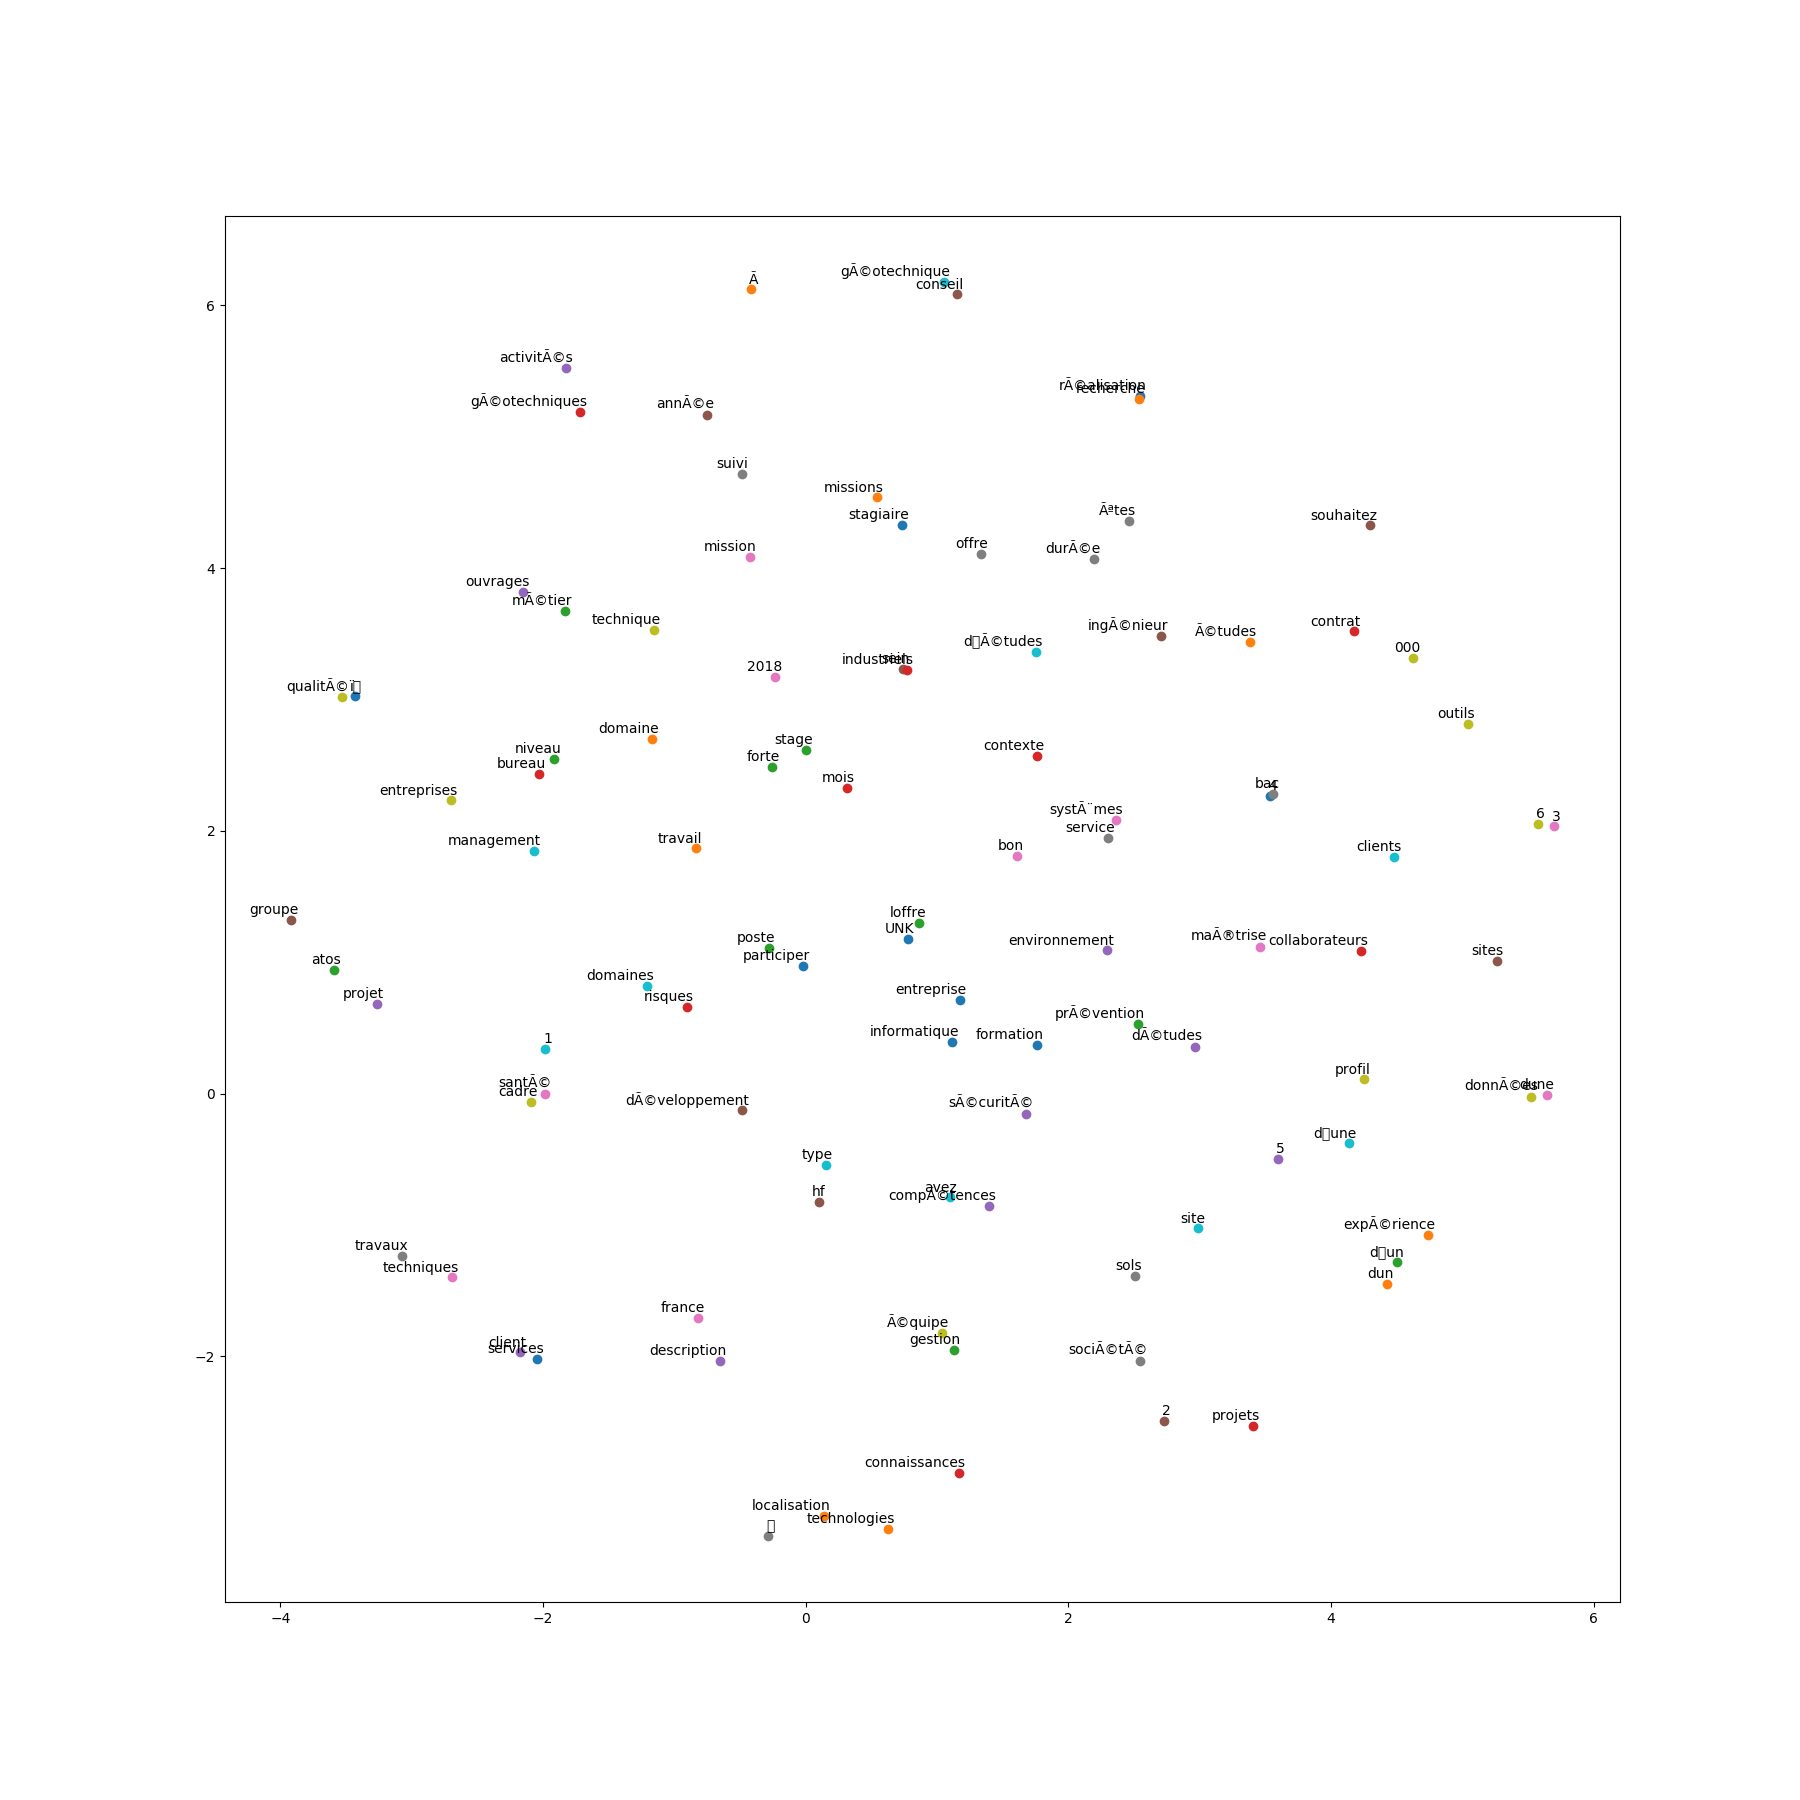
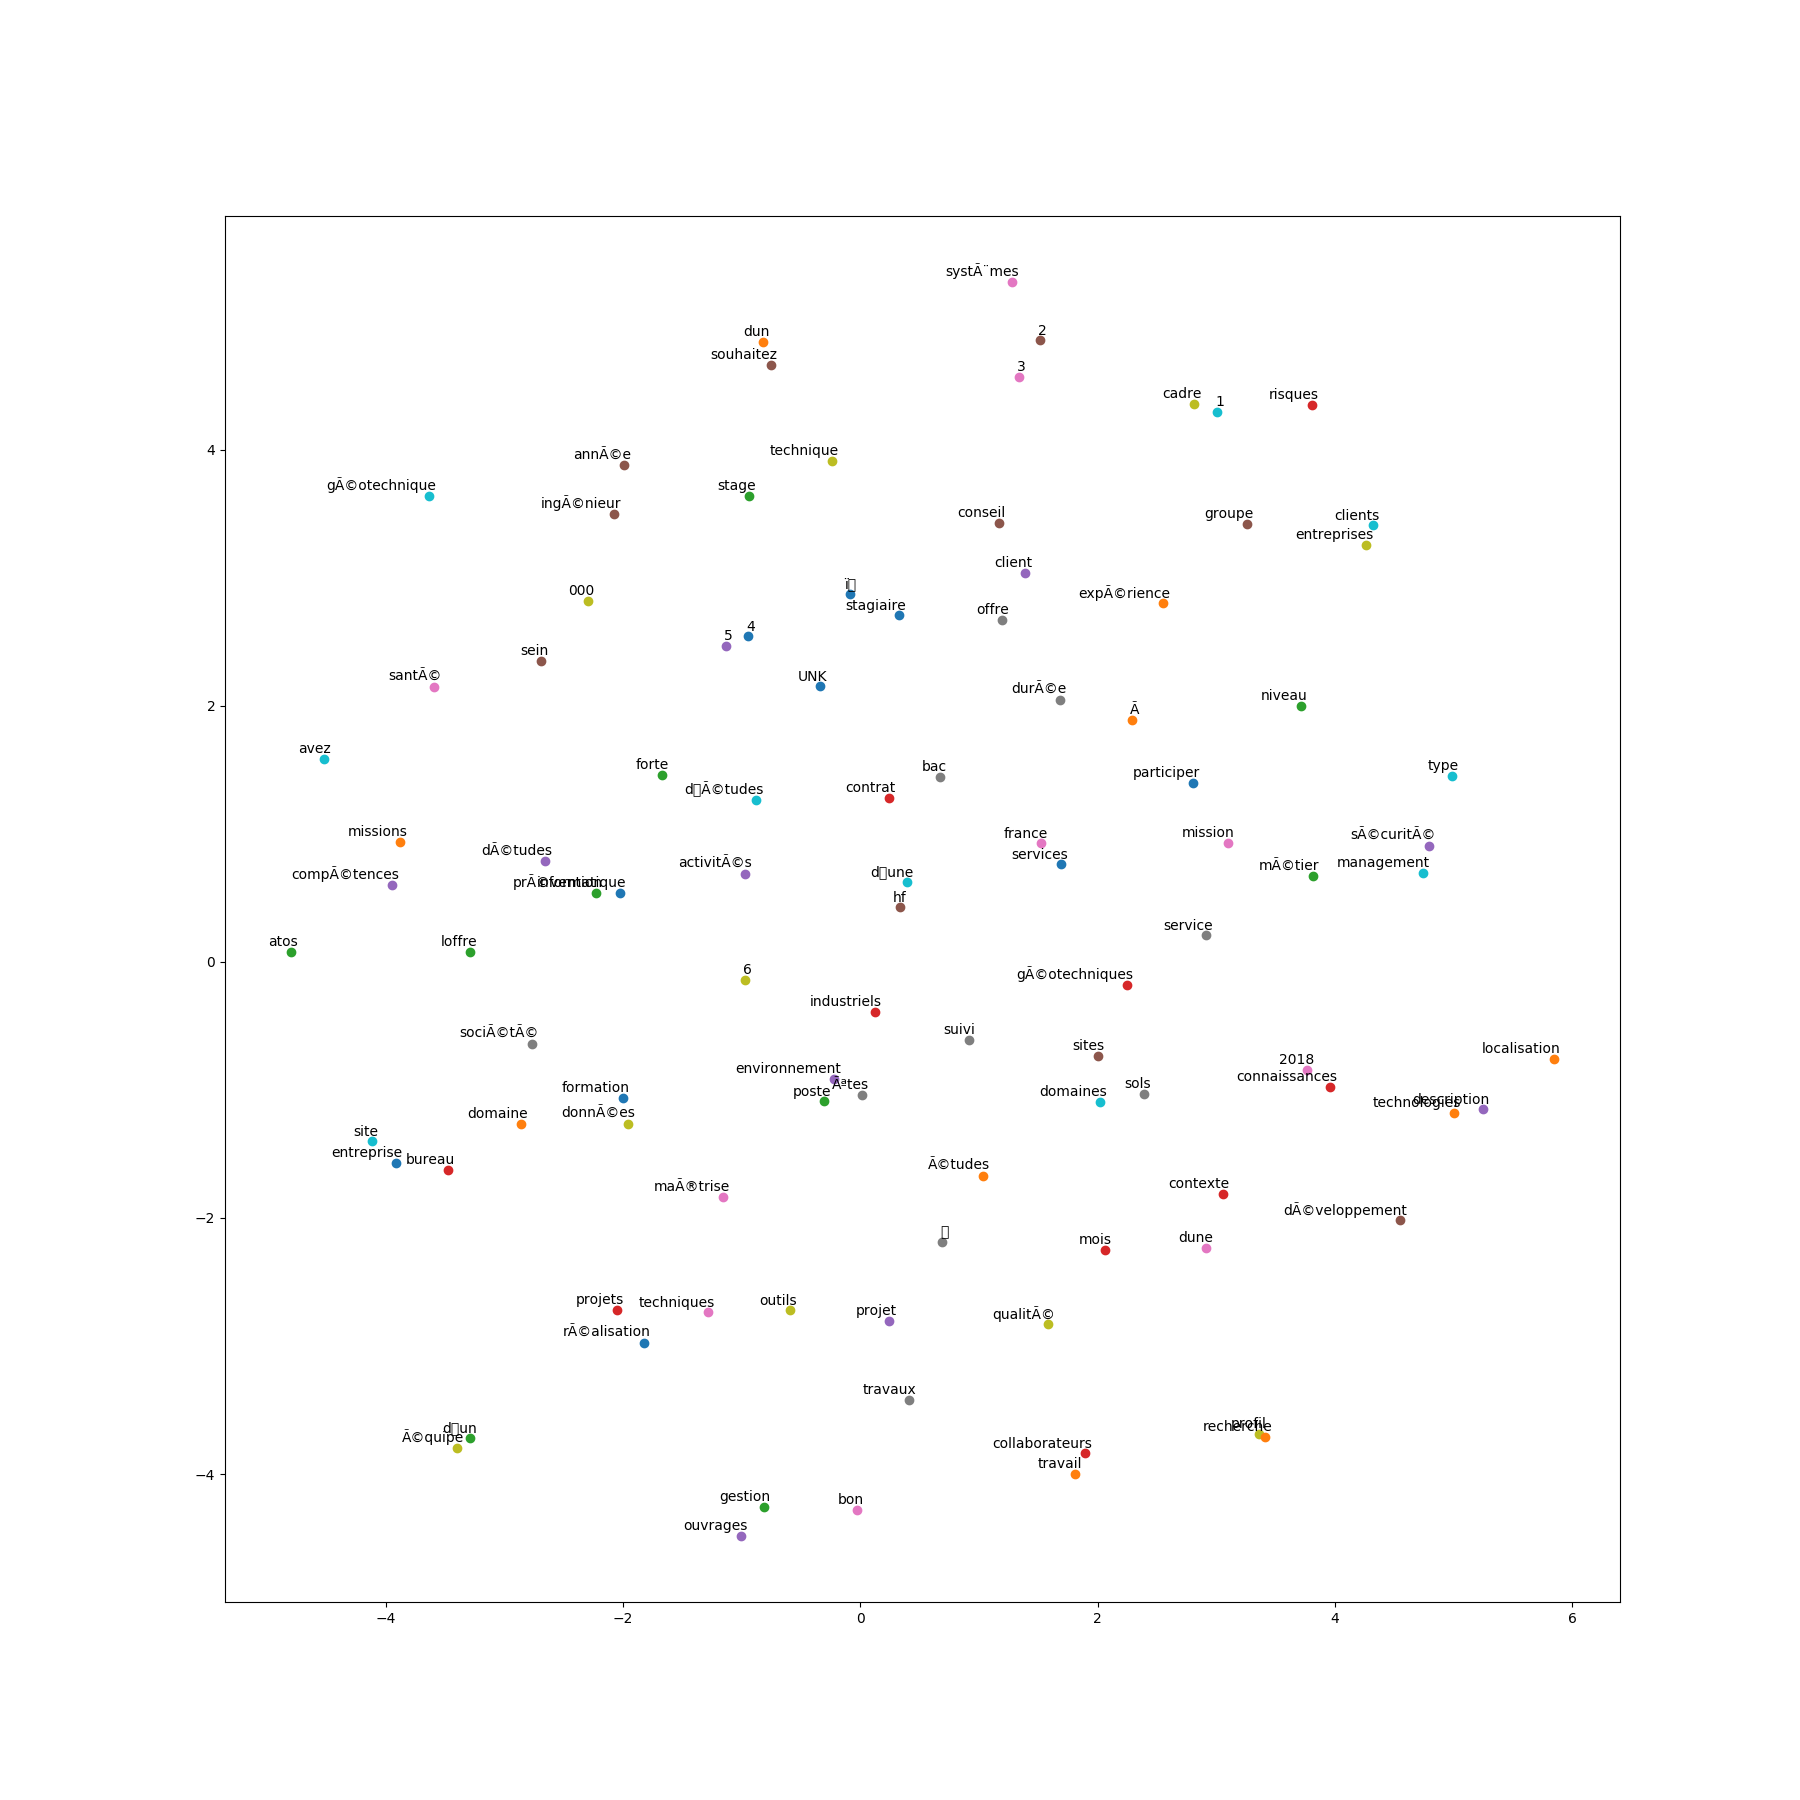
test unitaire

diff --git a/SmartRecruiting_DeepLearning/test_basic.py b/SmartRecruiting_DeepLearning/test_basic.py
@@ -1,11 +1,15 @@
 #!/usr/bin/env python2.7
 # -*- coding: utf-8 -*-
 
+'''
+Created on 16th Feb 2018
+@author: Qianqian
+'''
 import os
 import unittest
 import csv
 
-import pretraiterCSV#, word2vec_basic
+import pretraiterCSV, word2vec_basic
 
 class BasicTests(unittest.TestCase):
     ###############
@@ -18,6 +22,11 @@ class BasicTests(unittest.TestCase):
         resultat=['text not']
         pretraiterCSV.pretraiter(test)
         self.assertEqual(resultat, pretraiterCSV.pretraiter(test))
+
+    def test_build_dataset(self):
+        test=['long','ago','the','take','to','what','could','take','to']
+        voc_size=7
+        
 
 if __name__ == "__main__":
     unittest.main()
